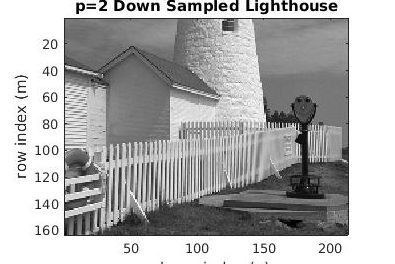
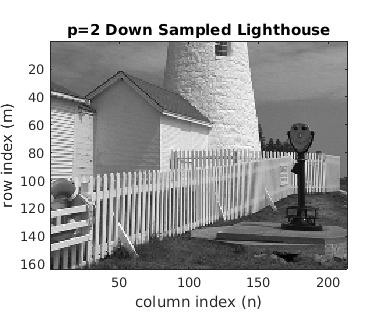
fixed axes of pics, not cut off

diff --git a/src/x3.m b/src/x3.m
@@ -4,6 +4,12 @@ load lighthouse
 
 p = 3;
 xx3 = ww(1:3:end, 1:p:end);
+show_img(xx3)
+title('downsample p=3 lighthouse')
+xlabel('column index (n)')
+ylabel('row index (m)')
+screen2jpeg('test.jpg')
+
 
 SIZE = size(xx3);
 
@@ -28,3 +34,9 @@ for i = 1:3*C
     xrlinear = interp1(n2, out(1:R,i), tt2); 
     out(:,i) = xrlinear;
 end
+
+show_img(out)
+title('interp1 p=3 approximation of lighthouse')
+xlabel('column index (max size = 3*n)')
+ylabel('row index (max size = 3*m)')
+screen2jpeg('interp1_pic.jpg')

diff --git a/src/code.m b/src/code.m
@@ -54,6 +54,7 @@ show_img(xpix) % zoom in to see the pixel colors
 title('Image of xpix, stack of cosines matrix')
 xlabel('column index (n)')
 ylabel('row index (m)')
+screen2jpeg('xpix.jpg')
 
 xpix = xpix';
 show_img(xpix)
